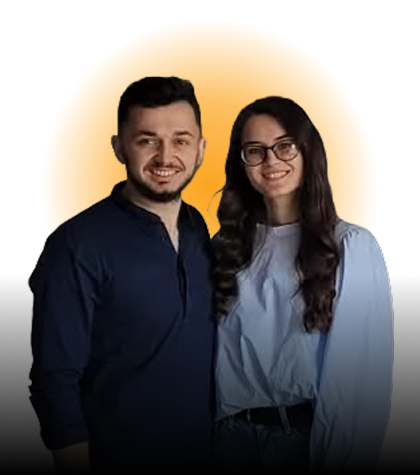
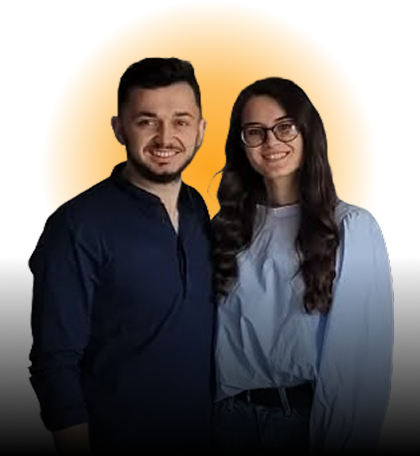
main imgs

diff --git a/styles/index.css b/styles/index.css
@@ -378,11 +378,6 @@ button {
   background: linear-gradient(transparent, var(--black) 80%);
 }
 
-.main.three .main-img {
-  margin-top: -10vw;
-  display: block;
-}
-
 /* ------------- *\
 # F O R   W H O ? #
 \* ------------- */
